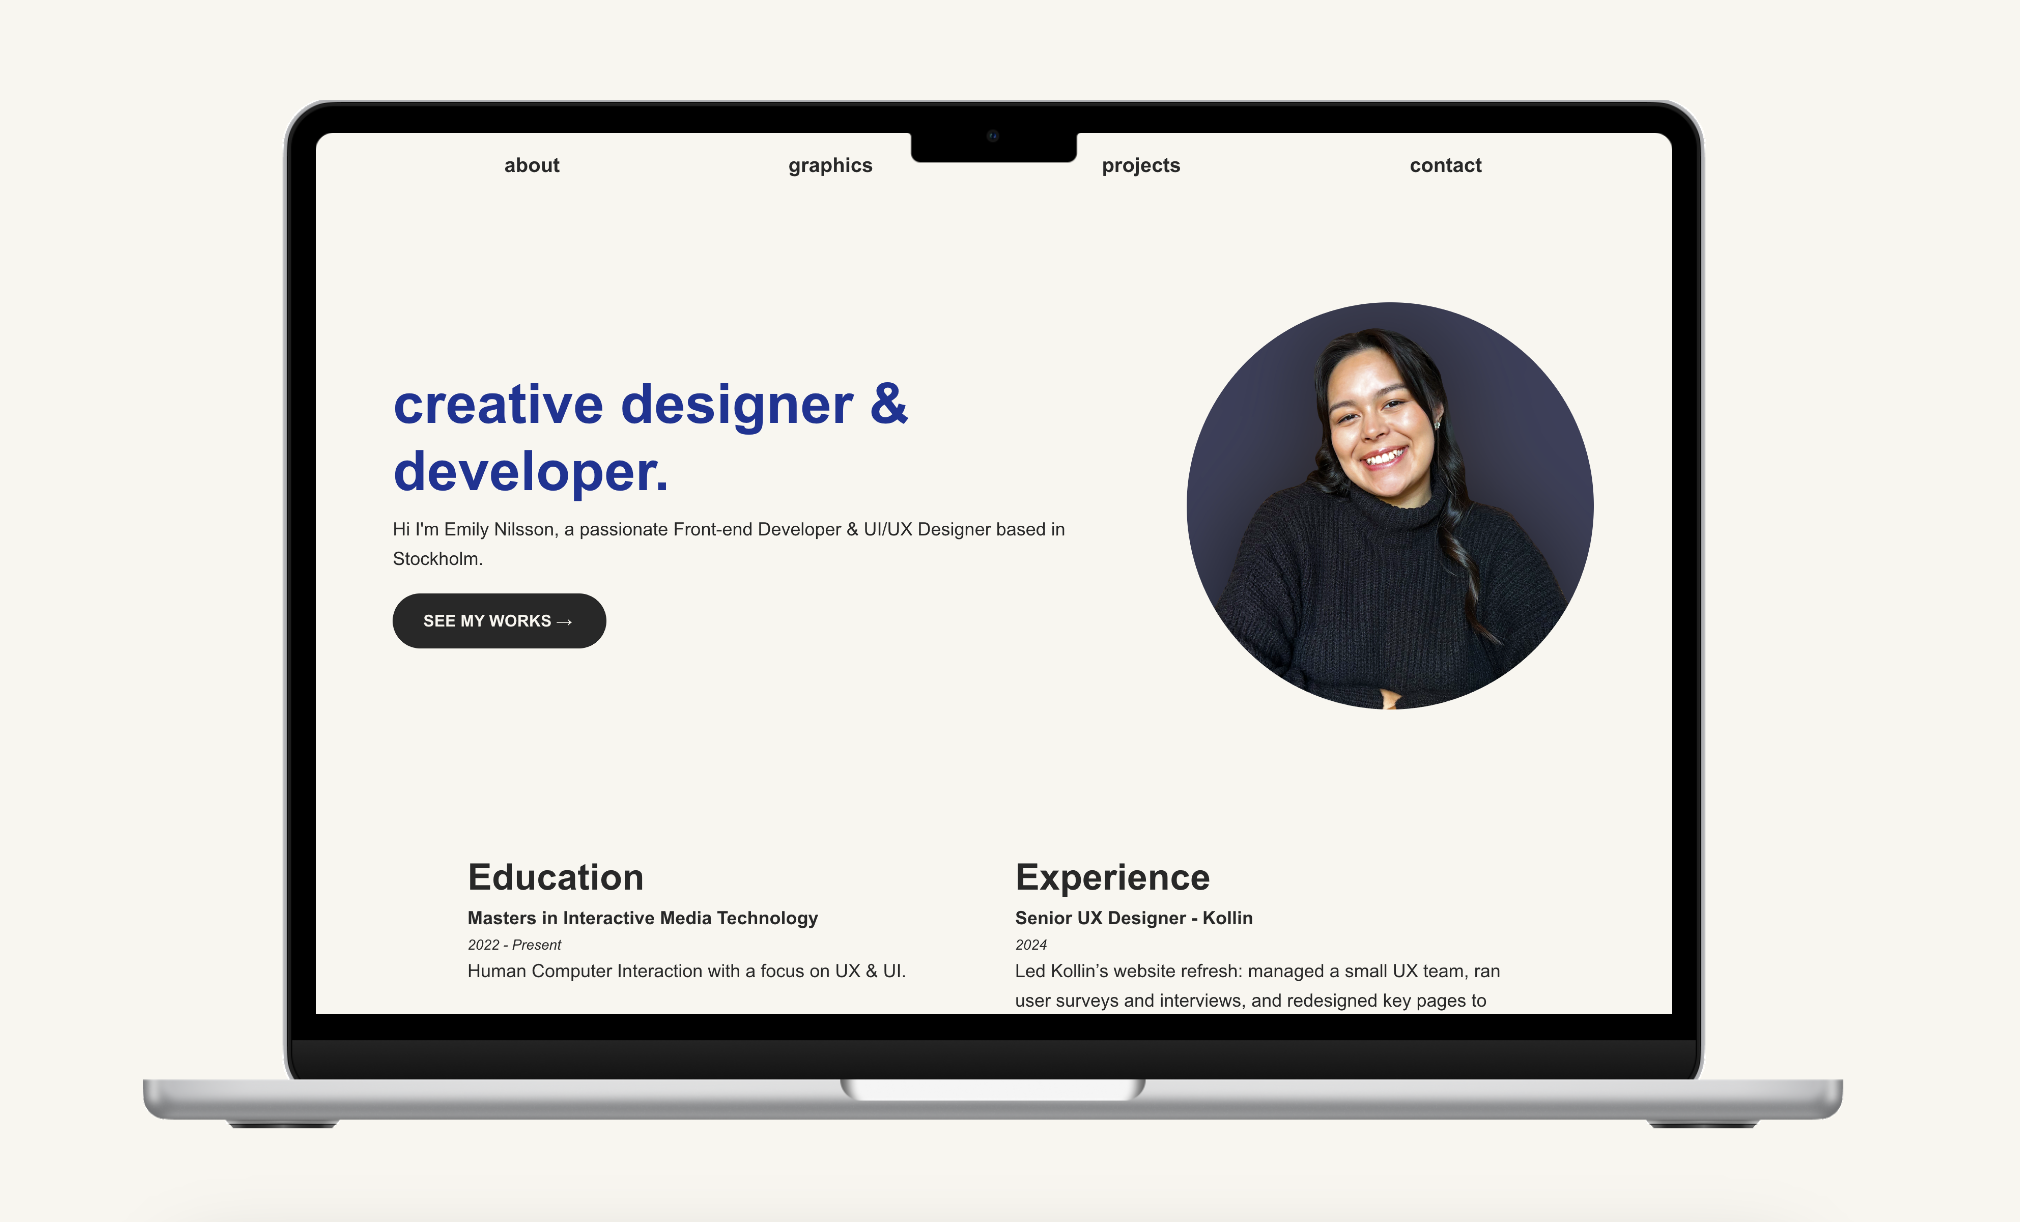
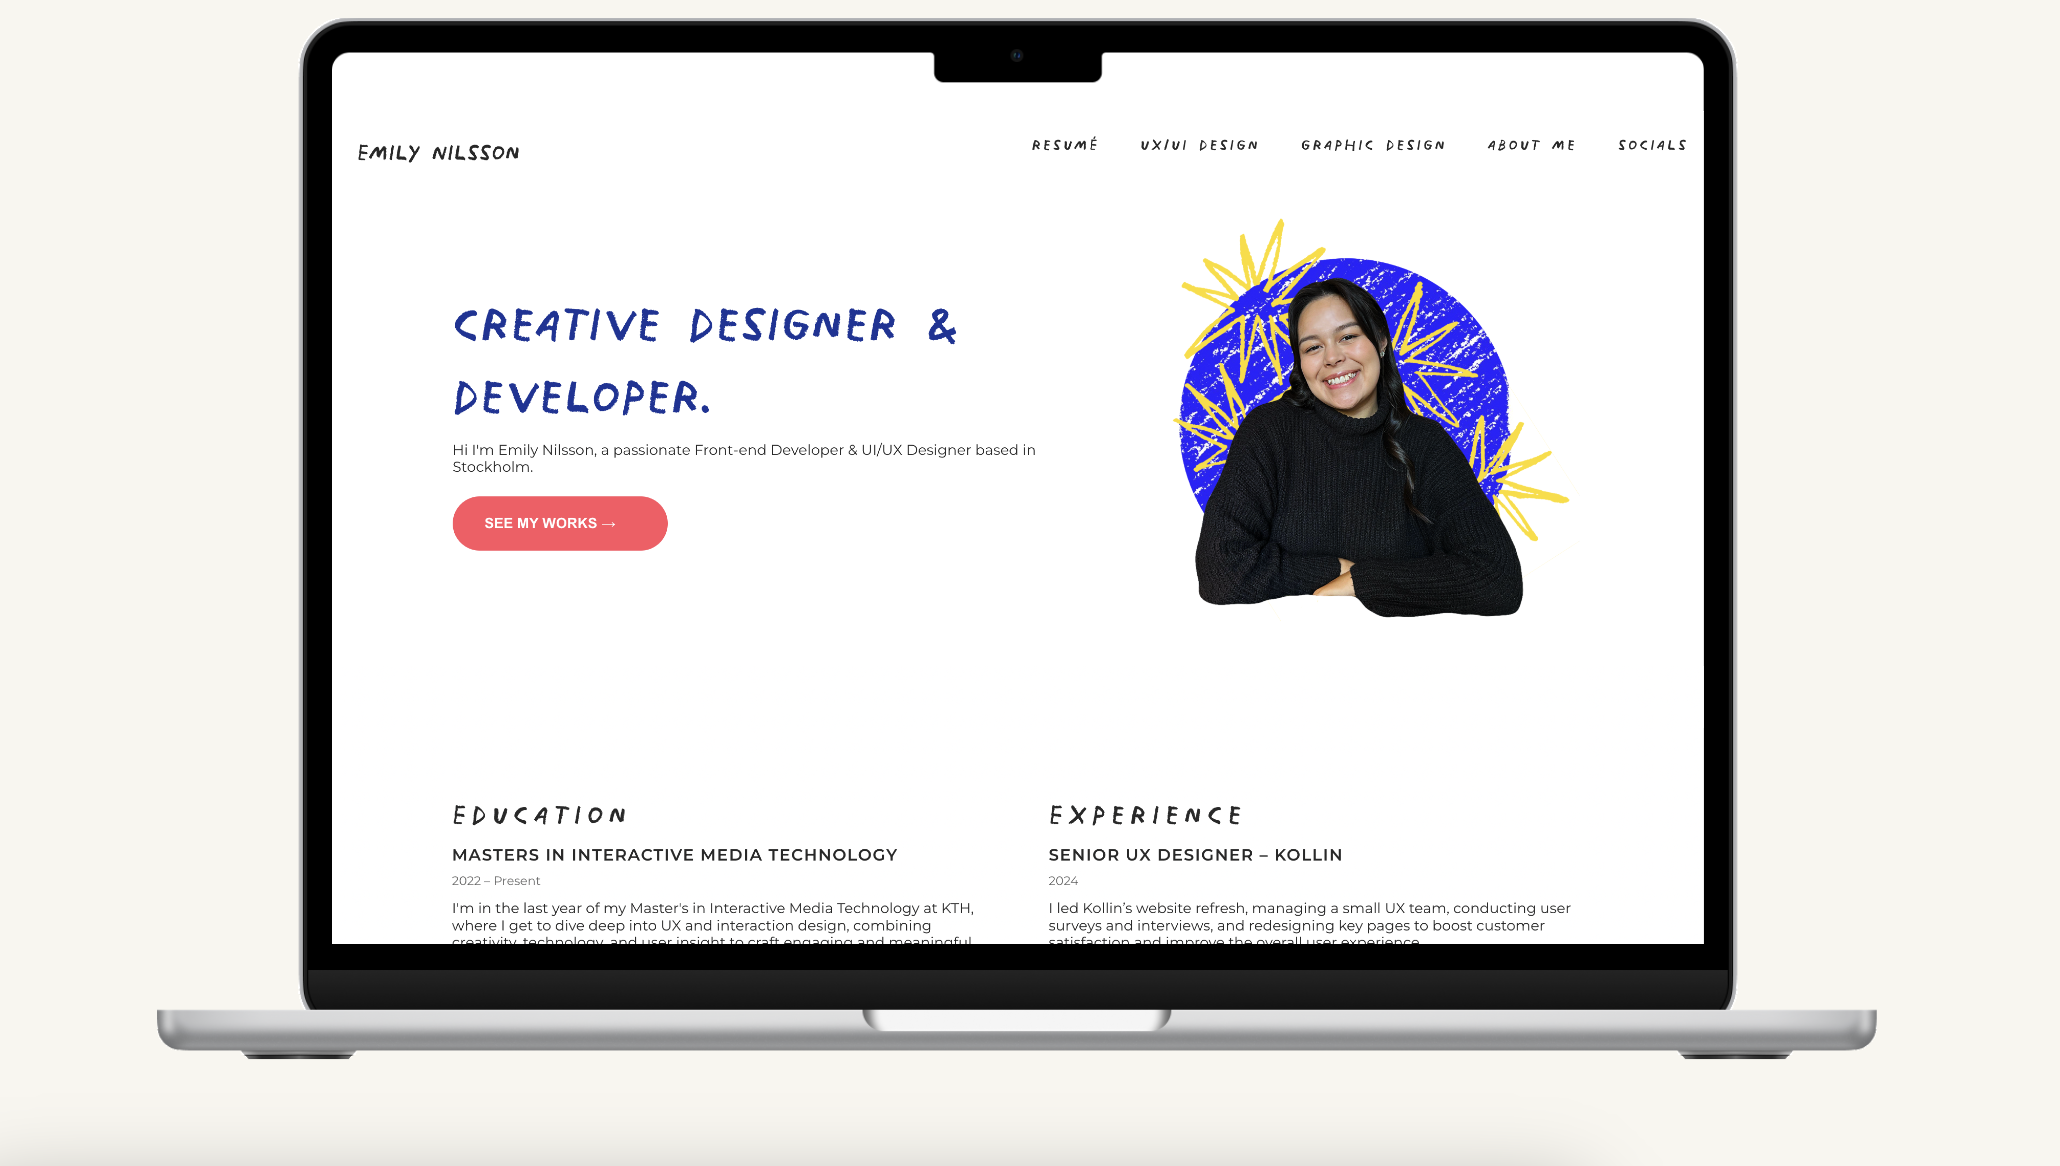
update pictures

Changed region(s): [[0.0624, 0.0, 0.9356, 0.9262], [0.5614, 0.1852, 0.8109, 0.5866]]

diff --git a/src/pages/about.jsx b/src/pages/about.jsx
@@ -1,7 +1,7 @@
 import React from 'react';
 import Typography from '../components/Typography';
 import './about.css';
-import EmilyAbout from '../assets/EmilyAbout.jpg';
+import AboutPic from '../assets/AboutPic.png';
 import { FaEnvelope } from 'react-icons/fa';
 
 export default function About() {
@@ -48,15 +48,6 @@ export default function About() {
             </Typography>
           </div>
 
-          {/* Skills */}
-          <div className="skills-list">
-            {skills.map((skill) => (
-              <Typography key={skill} type="p2" color="white" className="skill-tag">
-                {skill}
-              </Typography>
-            ))}
-          </div>
-
           {/* Call to Action: using your .cta-btn and Typography */}
           <a
             href="mailto:emily.r.nilsson@gmail.com"
@@ -71,7 +62,7 @@ export default function About() {
 
         {/* RIGHT: Image */}
         <div className="about-image">
-          <img src={EmilyAbout} alt="Portrait of Emily Nilsson" />
+          <img src={AboutPic} alt="Portrait of Emily Nilsson" />
         </div>
       </div>
     </section>

diff --git a/src/pages/about.css b/src/pages/about.css
@@ -9,28 +9,6 @@
   margin: 0 auto;
   display: grid;
   grid-template-columns: 1fr 1fr;
-  gap: 60px;
-  align-items: center;
-}
-
-/* Pretitle */
-.about-pretitle {
-  font-family: 'Playfair Display', serif;
-  font-style: italic;
-  color: #7a5c44;
-  margin-bottom: 8px;
-  text-transform: uppercase;
-  letter-spacing: 2px;
-}
-
-/* Main Title */
-.about-title {
-  font-family: 'Playfair Display', serif;
-  font-size: 3rem;
-  font-weight: 700;
-  line-height: 1.1;
-  color: #4a2f1a;
-  margin: 0 0 12px;
 }
 
 /* Subtitle/Tagline */
@@ -50,25 +28,6 @@
   color: #3b2a24;
   margin-bottom: 16px;
   max-width: 480px;
-}
-
-/* Skills Tags */
-.skills-list {
-  display: flex;
-  flex-wrap: wrap;
-  gap: 12px;
-  margin: 24px 0;
-}
-
-.skill-tag {
-  display: inline-block;
-  background: #193497;
-  color: #f7f1e9;
-  font-size: 0.85rem;
-  padding: 6px 12px;
-  border-radius: 20px;
-  font-family: 'Montserrat', sans-serif;
-  font-weight: 500;
 }
 
 /* CTA Button */

diff --git a/src/pages/work.css b/src/pages/work.css
@@ -37,9 +37,10 @@
 .work-card img {
   width: 100%;
   height: 100%;
-  object-fit: cover;
-  object-position: top;
+  object-position: center;
   display: block;
+  object-fit: contain;       /* scales to fit, no cropping */
+  background: #fff; 
 }
 
 .work-card:hover {
